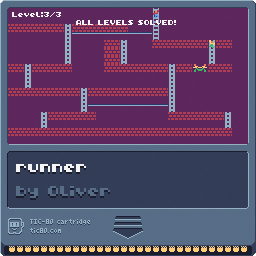
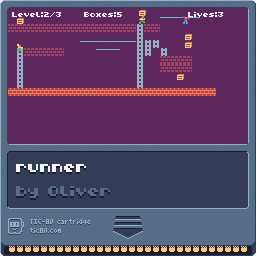
Add guard box carrying, timed drops, and pit handling

Changed region(s): [[0.0312, 0.0312, 0.9062, 0.5312], [0.0625, 0.0625, 0.0938, 0.0938]]

diff --git a/tic80/runner/software_architecture.md b/tic80/runner/software_architecture.md
@@ -79,6 +79,8 @@ classDiagram
         +number trapped_timer
         +number tx
         +number ty
+        +boolean carrying
+        +number carry_timer
     }
 
     class Hole {
@@ -165,6 +167,20 @@ stateDiagram-v2
     end note
 ```
 
+Guards can carry at most one box. When a running guard enters a box tile, the tile is
+cleared and `carrying` becomes true; `boxes_remaining` is unchanged because the box has
+not been collected by the runner. The guard carries it for
+`GUARD_BOX_CARRY_TICKS + math.random(0, GUARD_BOX_CARRY_RANDOM)` ticks, currently
+`600 + random(0, 360)`, then restores the box at the guard's current tile. If the guard
+falls into a live pit, `drop_guard_box_in_pit` restores the box at the surface tile
+directly above the pit instead. Respawning a carrying guard also restores its box before
+clearing the carry state.
+
+The optional `draw_carried_box` flag controls the visual representation independently of
+the gameplay state. It defaults to `true`, and when enabled the carried box is drawn one
+tile above the guard after guard sprites have been rendered. Setting it to `false` hides
+the carried sprite without changing pickup, timing, or drop behavior.
+
 ## 4. Guard AI in Detail
 
 The guard AI is a feature enhanced version of classic runner or chasing games. It replaced an earlier
@@ -200,7 +216,7 @@ step silently discarded every frame, pinning the guard to the ladder column.
 ### 4.2 Pit-Awareness Policy
 
 `guards_pit_aware` controls only route planning; it does not disable pit physics or trap
-detection. The default is `true`.
+detection. The default is `false`.
 
 ```lua
 guards_pit_aware=true   -- guards route around live dug pits
@@ -961,7 +977,7 @@ sequenceDiagram
         Loop->>Holes: update_holes() (tick down, refill, respawn trapped guard)
         Loop->>Guards: schedule_guards() (clear ready flags, grant shared step budget)
         loop each guard
-            Loop->>Guards: update_guard() (AI -> ready-gated physics -> check_trap)
+            Loop->>Guards: update_guard() (AI -> physics -> pit drop -> trap -> box state)
         end
         Loop->>Collision: check_guard_collision() -> lose_life() if caught
         Loop->>Collision: check_offscreen_falls() -> runner loses life or guard respawns
@@ -969,6 +985,7 @@ sequenceDiagram
     end
     Loop->>Render: draw level tiles
     Loop->>Render: draw guards (state-based sprite)
+    Loop->>Render: optionally draw carried boxes (`draw_carried_box`)
     Loop->>Render: draw runner (animation state)
     Loop->>Render: draw HUD (boxes/lives or game-over/level-complete)
     Loop->>Render: draw level progress and transition countdown
@@ -1060,10 +1077,10 @@ sequenceDiagram
 | `try_dig` (incl. above-tile solid check), `update_holes`, `close_all_holes` | Hole creation, above-tile validation, lifetime management, buried-runner death, and pit cleanup before respawn | FR-3.x, FR-5.2a |
 | `guard_ai`, `scan_floor`, `scan_down`, `scan_up`, `scan_rate`, `is_guard_pit`, `can_walk_at`, `can_branch` | Classic runner or chasing game pursuit: same-floor dash, floor-segment scan, banded rating, and configurable live-pit awareness (see section 4) | FR-4.x |
 | `schedule_guards`, `MOVE_POLICY` | Shared guard step budget; sublinear difficulty scaling with guard count | FR-4.x, NFR-2.2 |
-| `update_guard`, `check_trap`, `respawn_guard`, `guard_support_at` | Guard lifecycle: action dispatch, trapping, escape (with grace)/respawn, safe-support behavior | FR-4.x |
+| `update_guard`, `check_trap`, `respawn_guard`, `guard_support_at`, `update_guard_box`, `drop_guard_box_in_pit` | Guard lifecycle: action dispatch, trapping, escape (with grace)/respawn, safe-support behavior, one-box carrying, timed drops, and pit drops | FR-4.x |
 | `overlaps`, `check_guard_collision`, `check_offscreen_falls`, `lose_life` (resets runner AND all guards) | Player/guard collision resolution, off-screen recovery, lives & game-over | FR-5.x |
 | `TIC()` completion branch | Six-second level transition and final-level celebration | FR-2.12, FR-2.13, FR-6.6 |
-| `TIC()` draw section (per-state guard/runner sprite selection) | Tile/entity/HUD rendering, level progress, boxes, lives, countdown | FR-6.x, FR-4.8 |
+| `TIC()` draw section (per-state guard/runner sprite selection) | Tile/entity/HUD rendering, optional carried-box rendering, level progress, boxes, lives, countdown | FR-6.x, FR-4.8, FR-4.10 |
 | `TIC()` input reads (`btn`, `btnp`, `keyp`) | Player input polling, dual-layout dig key | FR-7.x |
 
 ## 11. Design Rationale & Trade-offs
@@ -1102,3 +1119,7 @@ sequenceDiagram
 - **Above-tile dig check uses the live grid, not the static level data**: checking
   `tile_xy` (which digging/refill already mutate in place) means an already-open pit above the
   target naturally reads as non-solid, with no separate bookkeeping needed for that exception.
+- **Guard box state is separate from collection state**: a carried box is removed from the
+    tile grid but does not decrement `boxes_remaining`; it remains collectible after a timed
+    drop, a pit drop onto the surface tile, or a guard respawn. The `draw_carried_box` option
+    affects only rendering and defaults to `true`.

diff --git a/tic80/runner/requirements.md b/tic80/runner/requirements.md
@@ -75,6 +75,8 @@ traceability with the architecture document and future test cases.
 - **FR-4.6**: A trapped guard's tile shall act as safe, walkable support for the player (the player may stand on / cross over a trapped guard without dying and without falling through the hole).
 - **FR-4.7**: Contact between the player and a guard that is not trapped shall count as the player being caught.
 - **FR-4.8**: Guards shall have distinct sprites/animations for running, hanging on a bar, climbing a ladder, and falling, mirrored by facing direction the same way as the player.
+- **FR-4.9**: A guard may carry at most one box, shall drop it after 600 ticks plus a random 0-360 ticks, and shall drop it on the surface tile directly above a pit when falling into that pit.
+- **FR-4.10**: Guard box carrying shall remove the box from the tile while preserving the remaining-box count; timed drops, pit drops, and guard respawns shall restore the box without allowing more than one carried box per guard.
 
 ### Non-Functional Requirements
 
@@ -109,6 +111,7 @@ traceability with the architecture document and future test cases.
 - **FR-6.4**: Sprites shall visually mirror (flip) based on facing direction.
 - **FR-6.5**: During normal play, the HUD shall display the current level number and total number of levels on the same line as the boxes and lives counters.
 - **FR-6.6**: During the six-second level transition, the HUD shall display the completion message and remaining countdown; after the final level it shall display a final-all-levels-solved celebration.
+- **FR-6.7**: The `draw_carried_box` option shall control whether a carried box is rendered above its guard, and shall default to `true`.
 
 ### Non-Functional Requirements
 
